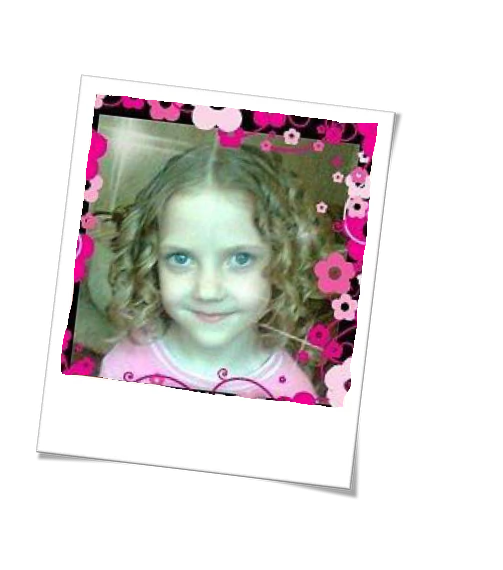
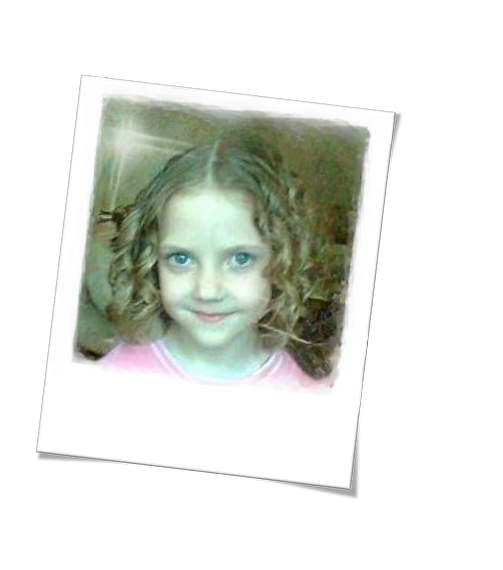
S-1 | поправил фото Вики и анимацию кольца

Changed region(s): [[0.1193, 0.1491, 0.7753, 0.7158]]

diff --git a/index.html b/index.html
@@ -1546,55 +1546,55 @@
             position: relative;
         }
 
-        /* ==================== КОЛЬЦО С ПЛАВНЫМ ВРАЩЕНИЕМ ==================== */
+        /* ==================== КОЛЬЦО ==================== */
         .ring {
             position: absolute;
             top: 50%;
             left: 50%;
+
             width: 75px;
             height: 75px;
-            transform: translate(-50%, -450%) scale(8) rotate(-720deg);
+
+            transform: translate(-50%, -300%);
             opacity: 0;
+
             z-index: 2;
             pointer-events: none;
-            filter: drop-shadow(0 30px 45px rgba(0, 0, 0, 0.35));
+
+            will-change: transform, opacity;
+
+            backface-visibility: hidden;
+            transform-style: preserve-3d;
         }
 
+        /* запуск */
         #special-date.animate .ring {
-            animation: ringUltraSmoothDrop 3.4s cubic-bezier(1, 1, 1, 1) forwards;
+            animation: ringDrop 2.4s ease-out forwards;
         }
 
-        @keyframes ringUltraSmoothDrop {
+        /* ==================== ПЛАВНОЕ ПАДЕНИЕ ==================== */
+        @keyframes ringDrop {
+
             0% {
-                transform: translate(-50%, -650%) scale(9.8) rotate(-720deg);
+                transform: translate3d(-50%, -300%, 0);
                 opacity: 0;
             }
+
             15% {
-                transform: translate(-50%, -480%) scale(6.5) rotate(-540deg);
-                opacity: 0.3;
-            }
-            30% {
-                transform: translate(-50%, -320%) scale(3.8) rotate(-360deg);
-                opacity: 0.85;
-            }
-            45% {
-                transform: translate(-50%, -190%) scale(2.3) rotate(-180deg);
                 opacity: 1;
             }
-            60% {
-                transform: translate(-50%, -105%) scale(1.45) rotate(-90deg);
+
+            70% {
+                transform: translate3d(-50%, -75%, 0);
+                opacity: 1;
             }
-            73% {
-                transform: translate(-50%, -68%) scale(1.12) rotate(-35deg);
+
+            85% {
+                transform: translate3d(-50%, -55%, 0);
             }
-            82% {
-                transform: translate(-50%, -65%) scale(1.04) rotate(-22deg);
-            }
-            91% {
-                transform: translate(-50%, -62%) scale(1.01) rotate(-20deg);
-            }
+
             100% {
-                transform: translate(-50%, -60%) scale(1) rotate(-19deg); /* финальный лёгкий наклон */
+                transform: translate3d(-50%, -60%, 0);
                 opacity: 1;
             }
         }
@@ -1700,7 +1700,7 @@
         #schedule {
             background: #f9f7f2;
             text-align: center;
-            padding: 30px 0 0 ;
+            padding: 30px 0 0;
         }
 
         .program-wrapper {
@@ -1800,7 +1800,7 @@
         /* ==================== АДАПТИВ ДЛЯ МОБИЛКИ ==================== */
         @media (max-width: 768px) {
             #schedule {
-                padding: 30px 0 0 ;
+                padding: 30px 0 0;
             }
 
             .program-wrapper {
@@ -3133,7 +3133,7 @@
             });
         }, {
             threshold: 0.85,           // можно менять от 0.7 до 0.95
-            rootMargin: "0px 0px -50px 0px"
+            rootMargin: "0px 0px 0px 0px"
         });
 
         observer.observe(specialDate);
